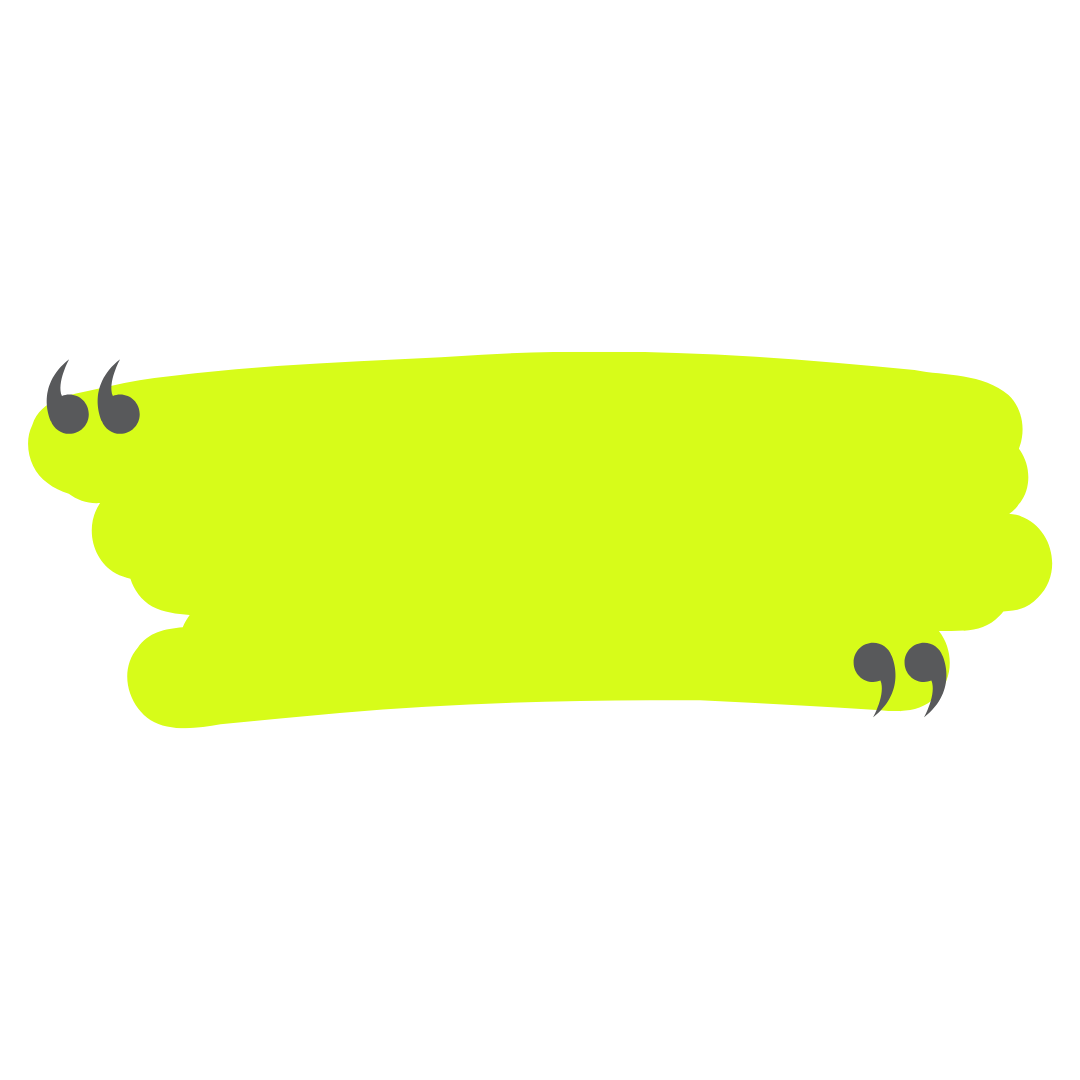
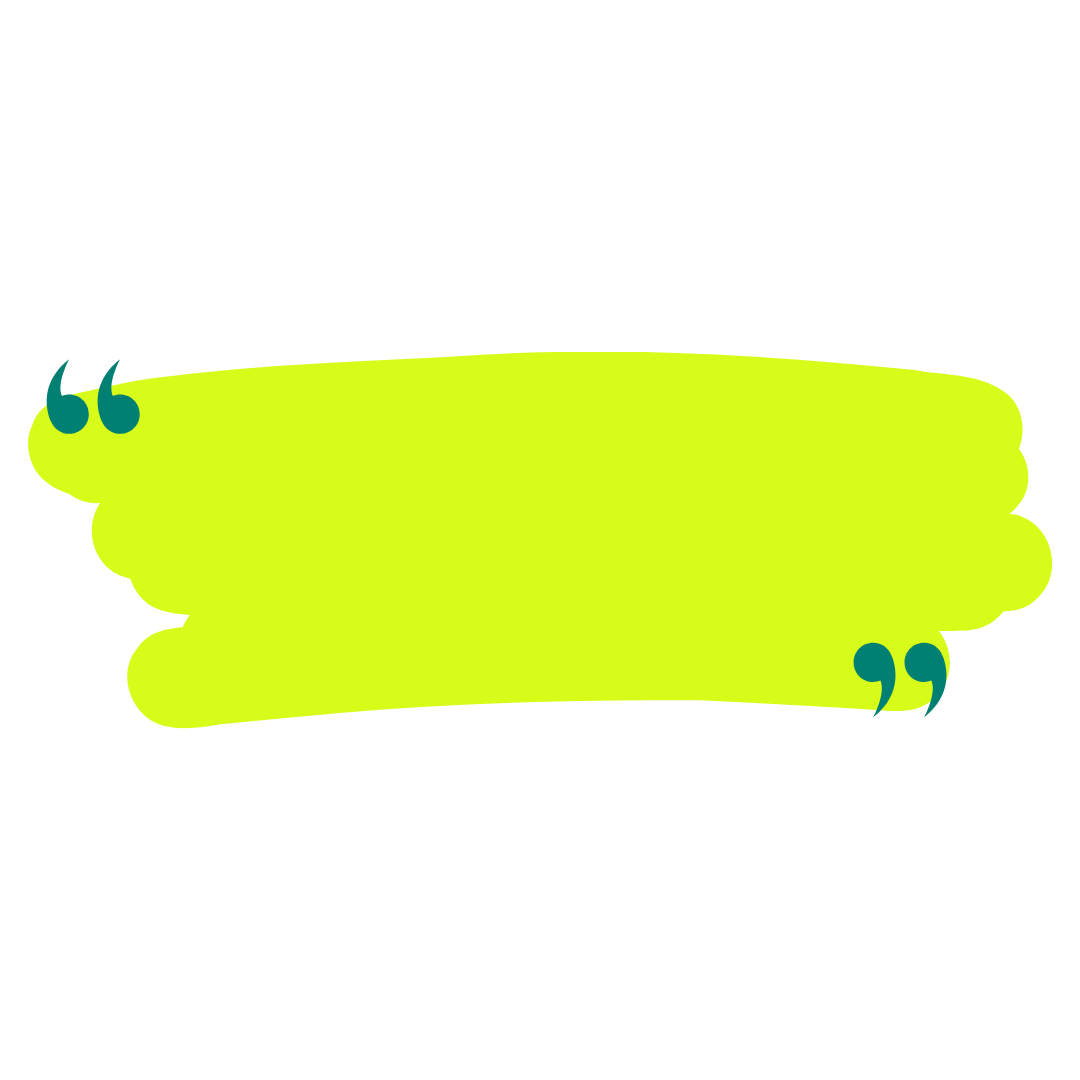
feat: modifs du 17/08

Changed region(s): [[0.7944, 0.5806, 0.8861, 0.6722], [0.0306, 0.3361, 0.1528, 0.3972]]

diff --git a/bana/bana/templates/about.html b/bana/bana/templates/about.html
@@ -87,7 +87,7 @@
     </div>
 </section>
 
-<!-- ENTRAIDE -->
+<!-- Frein princiapl -->
     <section class="flex justify-center px-4 md:px-8 lg:px-16 py-8 sm:py-16 md:py-32 bg-gray-50">
 
         <div class="relative w-full max-w-[1200px] xl:max-w-[1400px] mx-auto md:min-h-[560px]">
@@ -95,7 +95,7 @@
             <!-- Image -->
             <div class="relative w-4/5 sm:w-3/4 mx-auto -mb-16 md:mb-0 md:w-1/2 md:absolute md:-top-12 lg:-top-16 md:right-0 z-20 animate-on-scroll animate-right">
                 <picture>
-                    <source srcset="{% static 'bana/img/page/about/frein-principal.png' %}" type="image/webp">
+                    <source srcset="{% static 'bana/img/page/about/solution-mobilite-durable-enfants.png' %}" type="image/webp">
                     <img src="{% static 'bana/img/page/home/deplacements-scolaires-belgique.jpg' %}" alt="Déplacements scolaires en Belgique"
                         class="w-full aspect-[5/3] rounded-2xl shadow-md object-cover" width="1672" height="941" loading="lazy" />
                 </picture>
@@ -568,22 +568,36 @@
                             <div class="carousel flex transition-transform duration-700 ease-in-out">
                                 <div class="mySlides w-full flex-shrink-0">
                                     <picture>
-                                        <source srcset="{% static 'bana/img/page/about/Soutenir_Bana.jpg' %}" type="image/webp">
-                                        <img src="{% static 'bana/img/page/home/yaya-accompagnement-enfant-belgique.jpg' %}"
+                                        <source srcset="{% static 'bana/img/page/about/raalXbana-1.jpeg' %}" type="image/webp">
+                                        <img src="{% static 'bana/img/page/about/raalXbana-1.jpeg' %}"
                                             class="w-full h-[520px] lg:h-[600px] object-cover" alt="Yaya accompagnant un enfant" width="3027" height="3072" loading="lazy" />
                                     </picture>
                                 </div>
                                 <div class="mySlides w-full flex-shrink-0">
                                     <picture>
-                                        <source srcset="{% static 'bana/img/page/about/Soutenir_Bana.jpg' %}" type="image/webp">
-                                        <img src="{% static 'bana/img/page/home/yaya-accompagnement-enfant-belgique.jpg' %}"
+                                        <source srcset="{% static 'bana/img/page/about/raalXbana-2.JPG' %}" type="image/webp">
+                                        <img src="{% static 'bana/img/page/about/raalXbana-2.JPG' %}"
                                             class="w-full h-[520px] lg:h-[600px] object-cover" alt="Yaya accompagnant un enfant" width="3027" height="3072" loading="lazy" />
                                     </picture>
                                 </div>
                                 <div class="mySlides w-full flex-shrink-0">
                                     <picture>
-                                        <source srcset="{% static 'bana/img/page/about/Soutenir_Bana.jpg' %}" type="image/webp">
-                                        <img src="{% static 'bana/img/page/home/yaya-accompagnement-enfant-belgique.jpg' %}"
+                                        <source srcset="{% static 'bana/img/page/about/coversealXbana-1.jpeg' %}" type="image/webp">
+                                        <img src="{% static 'bana/img/page/about/coversealXbana-1.jpeg' %}"
+                                            class="w-full h-[520px] lg:h-[600px] object-cover" alt="Yaya accompagnant un enfant" width="3027" height="3072" loading="lazy" />
+                                    </picture>
+                                </div>
+                                <div class="mySlides w-full flex-shrink-0">
+                                    <picture>
+                                        <source srcset="{% static 'bana/img/page/about/coversealXbana-2.jpeg' %}" type="image/webp">
+                                        <img src="{% static 'bana/img/page/home/about/coversealXbana-2.jpeg' %}"
+                                            class="w-full h-[520px] lg:h-[600px] object-cover" alt="Yaya accompagnant un enfant" width="3027" height="3072" loading="lazy" />
+                                    </picture>
+                                </div>
+                                <div class="mySlides w-full flex-shrink-0">
+                                    <picture>
+                                        <source srcset="{% static 'bana/img/page/about/materneXbana.jpg' %}" type="image/webp">
+                                        <img src="{% static 'bana/img/page/about/materneXbana.jpg' %}"
                                             class="w-full h-[520px] lg:h-[600px] object-cover" alt="Yaya accompagnant un enfant" width="3027" height="3072" loading="lazy" />
                                     </picture>
                                 </div>
@@ -592,6 +606,9 @@
                                 <button type="button" class="carousel-dot w-3 h-3 rounded-full bg-white shadow opacity-100 transition-all duration-300" aria-label="Image 1"></button>
                                 <button type="button" class="carousel-dot w-3 h-3 rounded-full bg-white shadow opacity-50 transition-all duration-300" aria-label="Image 2"></button>
                                 <button type="button" class="carousel-dot w-3 h-3 rounded-full bg-white shadow opacity-50 transition-all duration-300" aria-label="Image 3"></button>
+                                <button type="button" class="carousel-dot w-3 h-3 rounded-full bg-white shadow opacity-100 transition-all duration-300" aria-label="Image 4"></button>
+                                <button type="button" class="carousel-dot w-3 h-3 rounded-full bg-white shadow opacity-50 transition-all duration-300" aria-label="Image 5"></button>
+                                <button type="button" class="carousel-dot w-3 h-3 rounded-full bg-white shadow opacity-50 transition-all duration-300" aria-label="Image 6"></button>
                             </div>
                         </div>
                     </div>

diff --git a/bana/bana/templates/home.html b/bana/bana/templates/home.html
@@ -377,6 +377,7 @@
                 <a href="https://auvio.rtbf.be/media/charleroi-matin-charleroi-matin-3249330" target="_blank" rel="noopener noreferrer" class="shrink-0 opacity-50 hover:opacity-100 transition-all duration-300"><img class="h-8 w-auto object-contain grayscale hover:grayscale-0" src="{% static 'bana/img/logo/logo_vivacite.svg' %}" alt="Vivacité"></a>
                 <a href="https://www.dhnet.be/regions/charleroi/2024/09/02/bana-community-debarque-a-charleroi-une-nouvelle-alternative-pour-assurer-les-trajets-scolaires-des-enfants-ZUBVCMZHQVEWNA3I75EDIZQBLY/" target="_blank" rel="noopener noreferrer" class="shrink-0 opacity-50 hover:opacity-100 transition-all duration-300"><img class="h-8 w-auto object-contain grayscale hover:grayscale-0" src="{% static 'bana/img/logo/logo_dh.svg' %}" alt="DH"></a>
                 <a href="https://www.wallonie-entreprendre.be/fr/actualites/accompagnement/bana-nyota-facilite-la-mobilite-des-enfants-grace-a-un-projet-entrepreneurial-engage/" target="_blank" rel="noopener noreferrer" class="shrink-0 opacity-50 hover:opacity-100 transition-all duration-300"><img class="h-8 w-auto object-contain grayscale hover:grayscale-0" src="{% static 'bana/img/logo/logo_wallonie-entreprendre.svg' %}" alt="WallonieEntreprendre"></a>
+                <a href="https://www.nostalgie.be/radio/podcasts/50914/best-of-de-l-ete-bana-community-l-entraide-entre-parents-pour-mieux-s-organiser" target="_blank" rel="noopener noreferrer" class="shrink-0 opacity-50 hover:opacity-100 transition-all duration-300"><img class="h-8 w-auto object-contain grayscale hover:grayscale-0" src="{% static 'bana/img/logo/logo_nostalgie.svg' %}" alt="Nostalgie"></a>
 
                 <!-- Série 2 — dupliquée pour boucle parfaite -->
                 <a href="https://www.sudinfo.be/id703073/article/2023-08-28/un-partenariat-pour-un-ramassage-scolaire-pratique-et-sur-en-cette-rentree-2023" target="_blank" rel="noopener noreferrer" class="shrink-0 opacity-50 hover:opacity-100 transition-all duration-300"><img class="h-8 w-auto object-contain grayscale hover:grayscale-0" src="{% static 'bana/img/logo/logo_sudinfo.png' %}" alt="SudInfo"></a>
@@ -389,6 +390,7 @@
                 <a href="https://auvio.rtbf.be/media/charleroi-matin-charleroi-matin-3249330" target="_blank" rel="noopener noreferrer" class="shrink-0 opacity-50 hover:opacity-100 transition-all duration-300" aria-hidden="true" tabindex="-1"><img class="h-8 w-auto object-contain grayscale hover:grayscale-0" src="{% static 'bana/img/logo/logo_vivacite.svg' %}" alt=""></a>
                 <a href="https://www.dhnet.be/regions/charleroi/2024/09/02/bana-community-debarque-a-charleroi-une-nouvelle-alternative-pour-assurer-les-trajets-scolaires-des-enfants-ZUBVCMZHQVEWNA3I75EDIZQBLY/" target="_blank" rel="noopener noreferrer" class="shrink-0 opacity-50 hover:opacity-100 transition-all duration-300" aria-hidden="true" tabindex="-1"><img class="h-8 w-auto object-contain grayscale hover:grayscale-0" src="{% static 'bana/img/logo/logo_dh.svg' %}" alt=""></a>
                 <a href="https://www.wallonie-entreprendre.be/fr/actualites/accompagnement/bana-nyota-facilite-la-mobilite-des-enfants-grace-a-un-projet-entrepreneurial-engage/" target="_blank" rel="noopener noreferrer" class="shrink-0 opacity-50 hover:opacity-100 transition-all duration-300"><img class="h-8 w-auto object-contain grayscale hover:grayscale-0" src="{% static 'bana/img/logo/logo_wallonie-entreprendre.svg' %}" alt="WallonieEntreprendre"></a>
+                <a href="https://www.nostalgie.be/radio/podcasts/50914/best-of-de-l-ete-bana-community-l-entraide-entre-parents-pour-mieux-s-organiser" target="_blank" rel="noopener noreferrer" class="shrink-0 opacity-50 hover:opacity-100 transition-all duration-300"><img class="h-8 w-auto object-contain grayscale hover:grayscale-0" src="{% static 'bana/img/logo/logo_nostalgie.svg' %}" alt="Nostalgie"></a>
 
             </div>
         </div>
